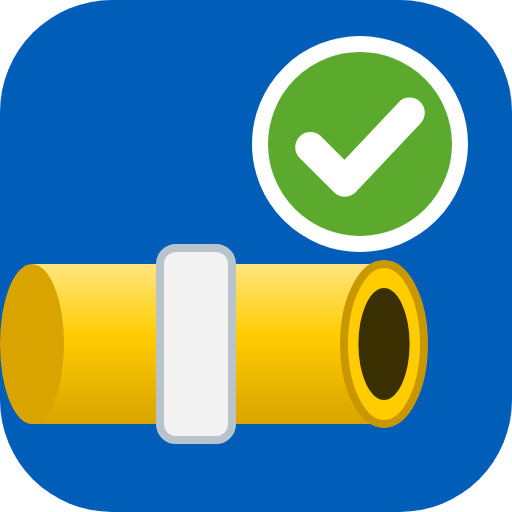
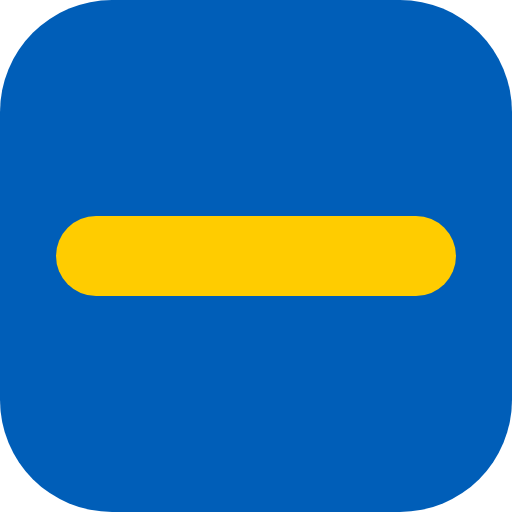
Ver.2.6 : icône simplifiée (trait jaune sur fond bleu)
Claude-Session: https://claude.ai/code/session_012HidT8b634HLvBPBYxguH9

diff --git a/index.html b/index.html
@@ -5,12 +5,12 @@
 <meta name="viewport" content="width=device-width, initial-scale=1">
 <title>VERIF-IMMO</title>
 <meta name="description" content="Contrôle des immobilisations à partir des fichiers carto (G Canalisation) et de la liste des EOTP SAP. Traitement 100 % local dans le navigateur.">
-<link rel="icon" href="favicon.svg?v=2.5" type="image/svg+xml">
-<link rel="icon" href="favicon-32.png?v=2.5" type="image/png" sizes="32x32">
-<link rel="apple-touch-icon" href="apple-touch-icon.png?v=2.5">
+<link rel="icon" href="favicon.svg?v=2.6" type="image/svg+xml">
+<link rel="icon" href="favicon-32.png?v=2.6" type="image/png" sizes="32x32">
+<link rel="apple-touch-icon" href="apple-touch-icon.png?v=2.6">
 <link rel="manifest" href="manifest.webmanifest">
 <meta name="theme-color" content="#005eb8">
-<link rel="stylesheet" href="style.css?v=2.5">
+<link rel="stylesheet" href="style.css?v=2.6">
 </head>
 <body>
 <header class="top">
@@ -28,7 +28,7 @@
 <script src="vendor/jspdf.umd.min.js"></script>
 <script src="vendor/jspdf.plugin.autotable.min.js"></script>
 <script src="vendor/tesseract/tesseract.min.js"></script>
-<script src="engine.js?v=2.5"></script>
-<script src="app.js?v=2.5"></script>
+<script src="engine.js?v=2.6"></script>
+<script src="app.js?v=2.6"></script>
 </body>
 </html>

diff --git a/sw.js b/sw.js
@@ -1,5 +1,5 @@
 /* VERIF-IMMO — fonctionnement hors ligne. Changer VERSION à chaque mise à jour de l'appli. */
-const VERSION = '2.5';
+const VERSION = '2.6';
 const CACHE = 'verif-immo-' + VERSION;
 const FILES = [
   './', 'index.html', `style.css?v=${VERSION}`, `engine.js?v=${VERSION}`, `app.js?v=${VERSION}`,

diff --git a/app.js b/app.js
@@ -1,7 +1,7 @@
 /* VERIF-IMMO — interface. Tout est traité localement dans le navigateur. */
 (function () {
   'use strict';
-  const VERSION = '2.5';
+  const VERSION = '2.6';
   const APPNAME = 'VERIF-IMMO';
   const E = window.VIEngine;
   const STORE_KEY = 'verifimmo.v1';
